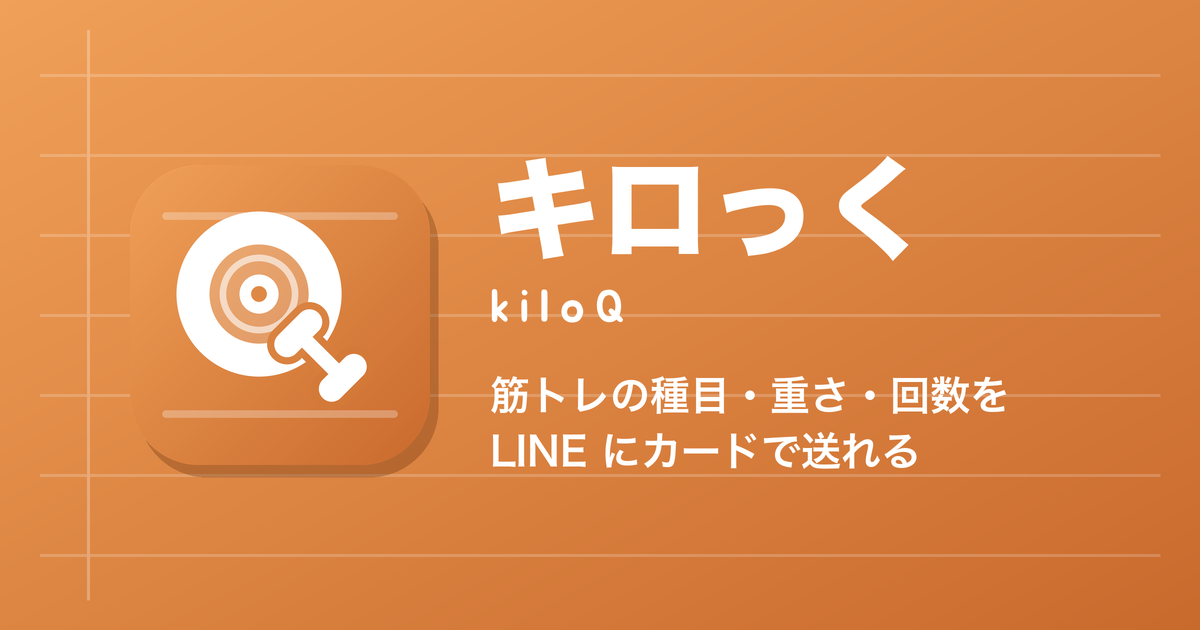
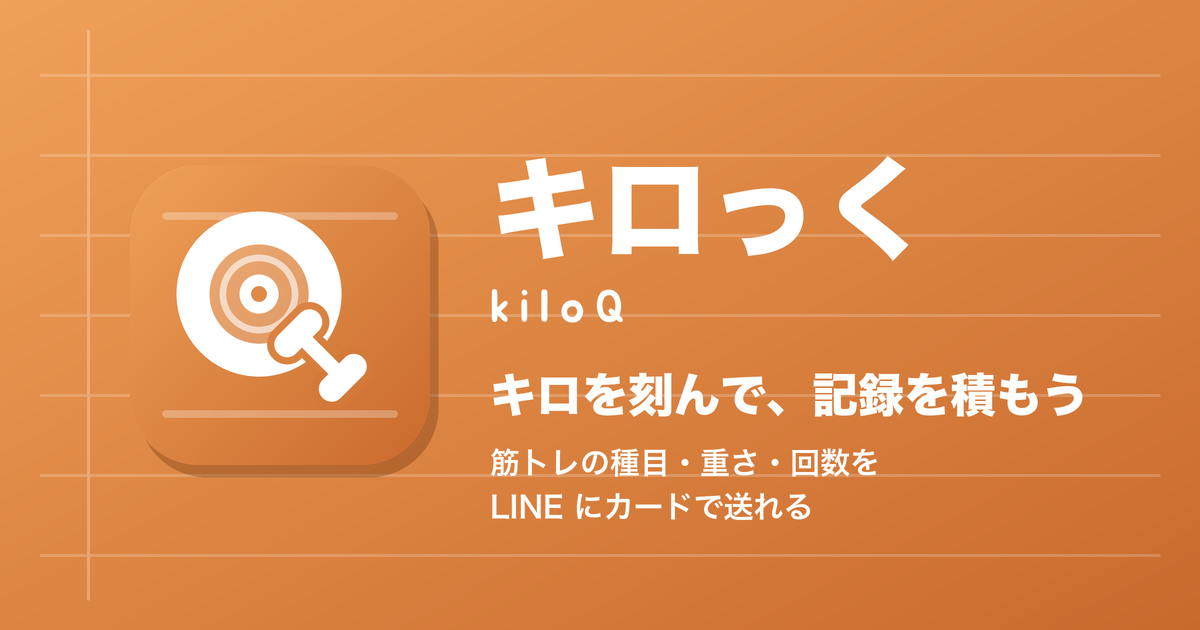
[add] キャッチコピー「キロを刻んで、記録を積もう」を見出しの下と OGP に入れる

Changed region(s): [[0.4008, 0.573, 0.925, 0.754], [0.4008, 0.7841, 0.6783, 0.8444]]

diff --git a/index.html b/index.html
@@ -34,6 +34,7 @@
         <h1 class="brand-name"><img class="brand-icon" src="./icon.svg" alt="" width="28" height="28" />キロっく</h1>
         <img class="brand-logo" src="./logo.svg" alt="kiloQ" width="66" height="28" />
       </header>
+      <p class="brand-copy">キロを刻んで、記録を積もう</p>
       <section class="status-panel" id="status-panel" aria-live="polite"></section>
 
       <nav class="tab-nav" id="tab-nav" aria-label="メインタブ">

diff --git a/css/navigation.css b/css/navigation.css
@@ -142,3 +142,5 @@
   font-size: 0.88rem;
 }
 
+/* キャッチコピー（見出しの行のすぐ下。おくるんの「つくって、おくるん」と同じ役目） */
+.brand-copy { margin: -4px 2px 0; color: #C96A2D; font-size: 13px; font-weight: 800; line-height: 1.4; letter-spacing: 0.02em; }

diff --git a/tools/ogp.py b/tools/ogp.py
@@ -59,8 +59,10 @@ def main():
     for ch in "kiloQ":  # 字の間を少しあける
         d.text((cx, 322 * S), ch, font=jua, fill=(255, 255, 255, 230), anchor="ls")
         cx += d.textlength(ch, font=jua) + 10 * S
-    d.text((x, 410 * S), "筋トレの種目・重さ・回数を", font=hira(6, 40), fill=(255, 255, 255), anchor="ls")
-    d.text((x, 466 * S), "LINE にカードで送れる", font=hira(6, 40), fill=(255, 255, 255), anchor="ls")
+    # キャッチコピー（おくるんの「つくって、おくるん」と同じ役目）と、その下に小さく説明
+    d.text((x, 412 * S), "キロを刻んで、記録を積もう", font=hira(8, 46), fill=(255, 255, 255), anchor="ls")
+    d.text((x, 474 * S), "筋トレの種目・重さ・回数を", font=hira(6, 30), fill=(255, 255, 255, 215), anchor="ls")
+    d.text((x, 518 * S), "LINE にカードで送れる", font=hira(6, 30), fill=(255, 255, 255, 215), anchor="ls")
 
     img.resize((W, H), Image.LANCZOS).convert("RGB").save(OUT, optimize=True)
     print(f"{OUT.name} を書き出しました")
